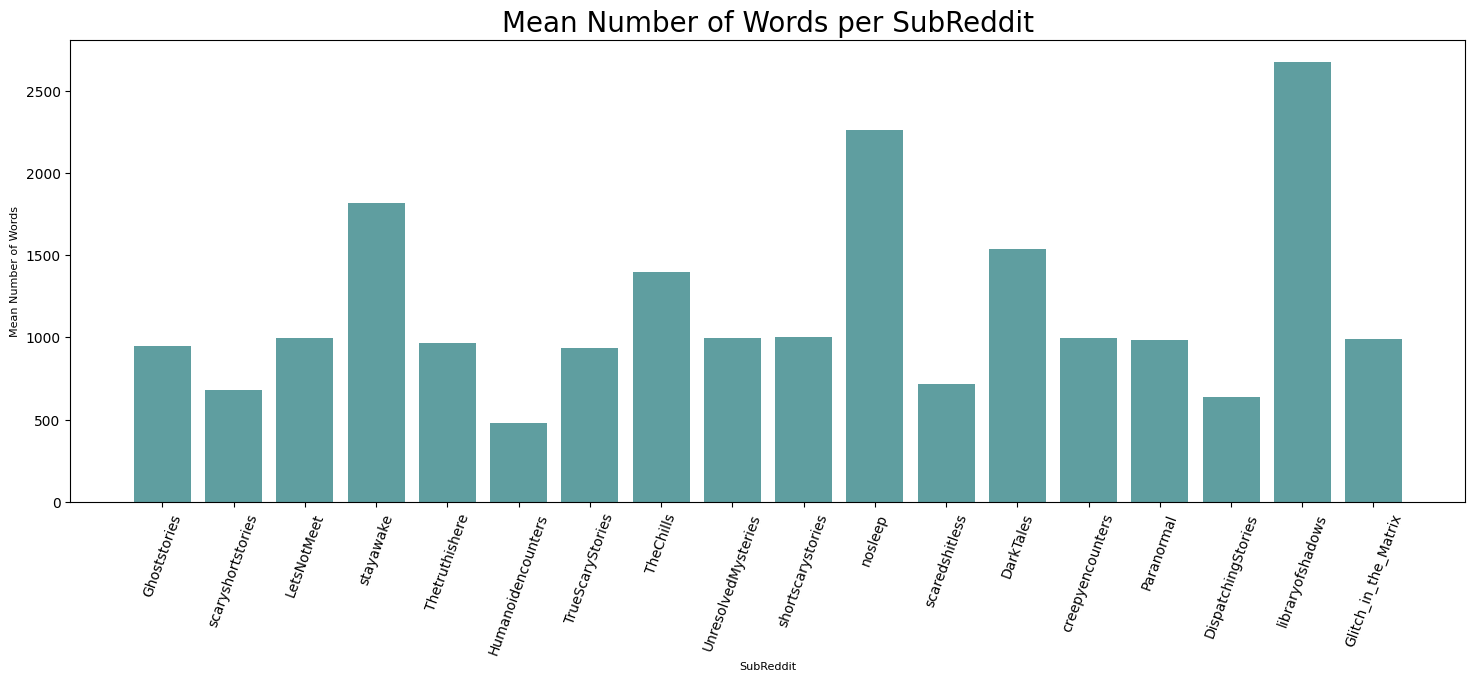
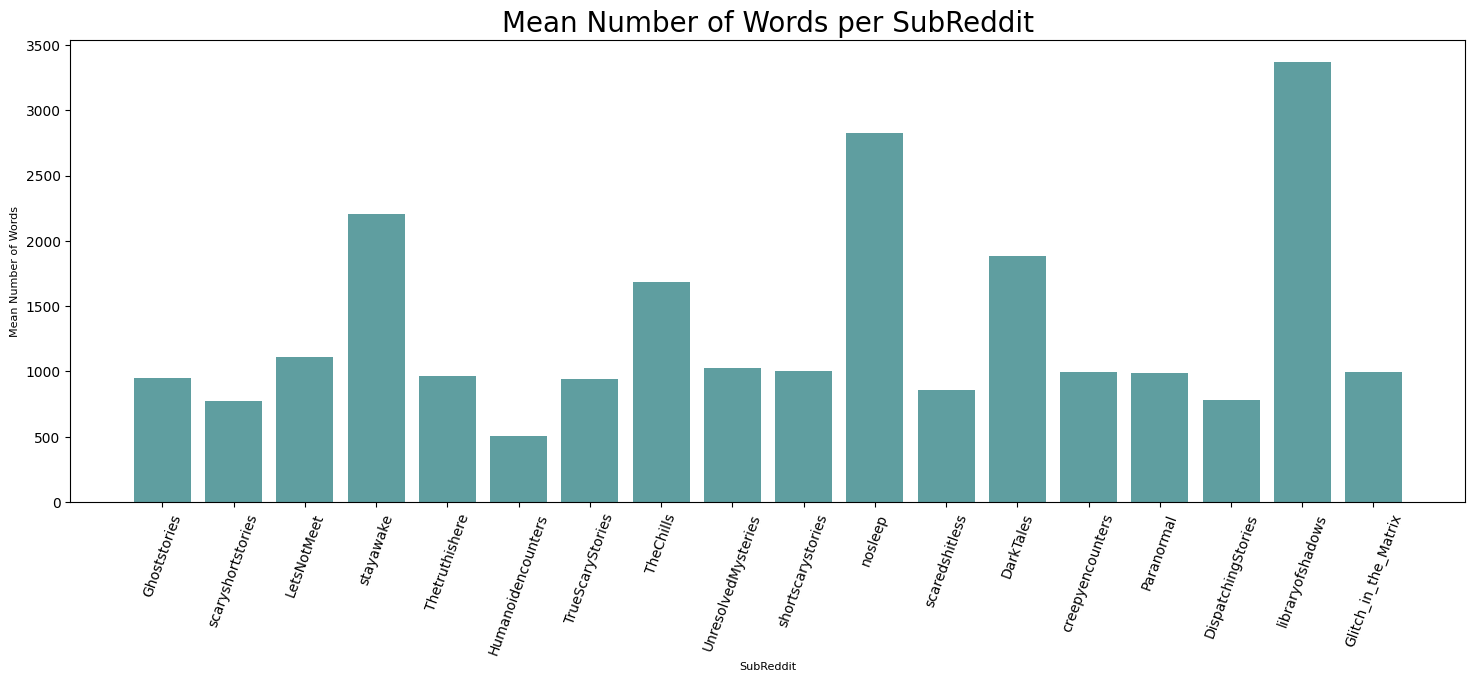
eda

diff --git a/Code/Woby_Modules/CorpusProcessor.py b/Code/Woby_Modules/CorpusProcessor.py
@@ -13,6 +13,10 @@ from sys import getsizeof
 import re
 import matplotlib.pyplot as plt
 import numpy as np
+from nltk import word_tokenize
+from nltk import FreqDist
+from nltk.corpus import stopwords
+import string
 
 class CorpusProcessor:
 	'''
@@ -282,6 +286,7 @@ class CorpusProcessor:
 			- network plot
 			- topics plot
 		'''
+		print('Doing EDA, please wait, the tokenization of the corpus takes a few minutes...')
 		results_path = './results/'
 
 		if not os.path.exists(results_path):
@@ -290,18 +295,34 @@ class CorpusProcessor:
 		# Number of stories per subreddit & number of words per subreddit
 		sub_n_stories = dict()
 		sub_n_words = dict()
+		sub_words = dict()
+		all_words = list()
+
+		stop_words = stopwords.words('english')
+		stop_words += string.punctuation
+		stop_words += ['’', '“', '”', "''", '``', "n't", "'s", '--', '–', "'m"]
+
 		for dirpath, dirnames, filenames in os.walk(self.corpus_filepath):
-			sub_n_stories[dirpath.split('/')[-1]] = len(filenames)
-			n_words = 0
+			_n_words = 0
+			_sub_words = list()
+
 			for file in filenames:
 				with open(dirpath+'/'+file, 'r') as f:
-					text = f.read()
-				words = text.split(' ')
-				n_words += len(words)
-			sub_n_words[dirpath.split('/')[-1]] = n_words/len(filenames)
+					_text = f.read()
+
+				_words = word_tokenize(_text)
+				tokens = [token.lower() for token in _words if token.lower() not in stop_words]
+				_n_words += len(_words)
+				all_words += tokens
+				_sub_words += tokens
+			
+			sub_n_stories[dirpath.split('/')[-1]] = len(filenames)
+			sub_n_words[dirpath.split('/')[-1]] = _n_words/len(filenames)
+			sub_words[dirpath.split('/')[-1]] = _sub_words
 				
 		sub_n_stories.pop('')
 		sub_n_words.pop('')
+		sub_words.pop('')
 
 		subs = np.array(list(sub_n_stories.keys()))
 		n_stories = np.array(list(sub_n_stories.values()))
@@ -325,6 +346,27 @@ class CorpusProcessor:
 		plt.xticks(rotation='70', fontsize=10)
 		plt.savefig(results_path+'mean_words_per_sub.png', bbox_inches='tight')
 
+		# Most common non-stopword words
+		fig = plt.figure(figsize = (10,4))
+		plt.gcf().subplots_adjust(bottom=0.15) # to avoid x-ticks cut-off
+		
+		fd = FreqDist(all_words)
+		print('Whole Corpus: ', fd.most_common(10))
+
+		fd.plot(20, cumulative=False)
+		fig.suptitle('Most Frequent Words in Corpus, Non-Stopwords', fontsize=20)
+		fig.savefig(results_path+'freq_dist.png', bbox_inches = "tight")
+
+		for sub in sub_words.keys():
+			fig = plt.figure(figsize = (10,4))
+			plt.gcf().subplots_adjust(bottom=0.15) # to avoid x-ticks cut-off
+			
+			fd = FreqDist(sub_words[sub])
+			print(f'{sub}: ', fd.most_common(10))
+
+			fd.plot(20, cumulative=False)
+			fig.suptitle(f'Most Frequent Words in Sub r/{sub}, Non-Stopwords', fontsize=20)
+			fig.savefig(results_path+f'{sub}_freq_dist.png', bbox_inches = "tight")
 
 
 	def regex_sub(self, pattern, sub_pattern=' ', text:str=''):

diff --git a/Code/README.md b/Code/README.md
@@ -1,13 +1,9 @@
 ## To Do
 #### Preprocessing
-* EDA (LDA, )
-      plots:
-            * stories per subreddit
-            * most common words total + by each subreddit
-            * avg number of words per sub
-            * LDA
-                  * network plot
-                  * topics plot
+
+* LDA
+      * network plot
+      * topics plot
 
 #### Model Pipeline
 * build simple nn in pytorch for next word prediction
